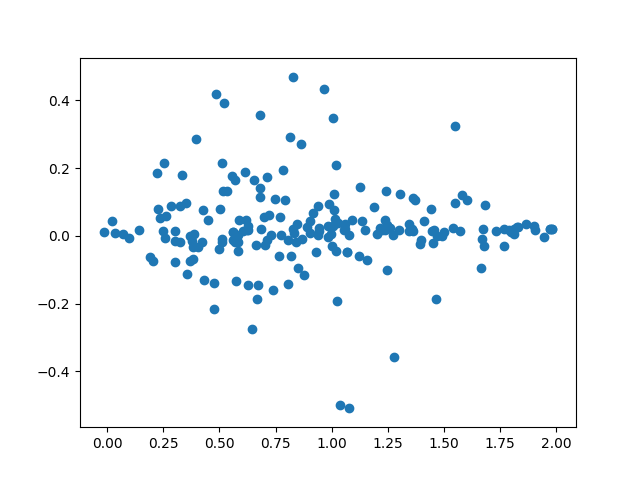
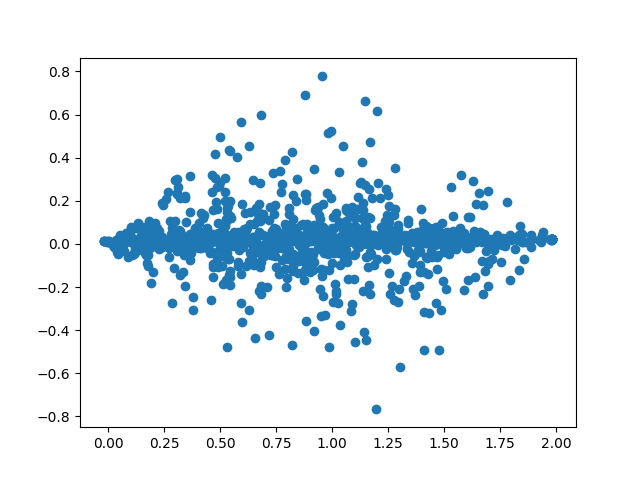
add ca visualization

diff --git a/network/util.py b/network/util.py
@@ -110,8 +110,8 @@ def get_saak_anchors(images, _sess=None, ks=2, max_layer=5, vis=None):
         if vis is not None:
             ind = range(len(batches))
             np.random.shuffle(ind)
-            ind = ind[:200]
-            projection = np.matmul([batches[k,:] for k in ind], np.reshape(anchor[:,:,:,:2], [12,2]))
+            ind = ind[:1000]
+            projection = np.matmul([batches[k,:] for k in ind], np.reshape(anchor[:,:,:,:2], [-1,2]))
             # np.save('p.npy', projection)
             # np.save('p2.npy', anchor)
             # np.save('p3.npy', batches)
@@ -210,14 +210,43 @@ def display2_kmeans(images, kmeans, kmeans2, m=20, suffix='_ca'):
     cv2.imwrite('images/voc_kmeans%s_lab_nc%d_all_resized_context.png' % (suffix, nc2, ), img2)
     
 
-def get_content_adaptive_saak(images, _sess=None, ks=2, n_clusters=10):
+def get_content_adaptive_saak(images, _sess=None, ks=2, n_clusters=5, vis=None):
     n, h, w, ch = images.shape
+
     batches = _extract_batches(images, ks)
+
     kmeans = KMeans(n_clusters=n_clusters)
     kmeans.fit(batches)
+
     # print(kmeans.labels_)
+
     print(kmeans.cluster_centers_)
-    display_kmeans(batches, kmeans)
+    # display_kmeans(batches, kmeans)
+
+    if vis is not None:
+        cluster = [[] for i in range(n_clusters)]
+        for k, b in enumerate(batches):
+            cluster[kmeans.labels_[k]].append(b)
+        for k in range(n_clusters):
+            cluster[k] = np.concatenate(np.expand_dims(cluster[k], axis=0), axis=0)
+            print(cluster[k].shape)
+            ch = 3
+            anchor, _ = _fit_anchor_vectors(cluster[k], ks, ch, augment=False)
+            anchor = np.array(anchor)
+            print('anchor shape: ' + str(anchor.shape))
+            ind = range(len(cluster[k]))
+            np.random.shuffle(ind)
+            ind = ind[:200]
+            t_batches = [cluster[k][l,:] for l in ind]
+            # t_batches = np.concatenate(t_batches, axis=0)
+            anchor = np.reshape(anchor[:,:,:,:2], [-1,2])
+            proj = np.matmul(t_batches, anchor)
+            plt.figure()
+            plt.scatter(proj[:,0], proj[:,1])
+            plt.savefig('images/%s_%d.png' % (vis, k))
+
+
+
     # images_ds = [cv2.resize(img, None, fx=.5, fy=.5) for img in images]
     # images_ds = np.array(images_ds)
     # batches_ds = _extract_batches(images_ds, ks)

diff --git a/voc12.py b/voc12.py
@@ -68,7 +68,7 @@ def main():
         print("Restoration succeed!\n")
 
     # extract context adaptive saak anchors
-    get_content_adaptive_saak(images)
+    get_content_adaptive_saak(images, vis='scatter_ca')
 
     return
 
